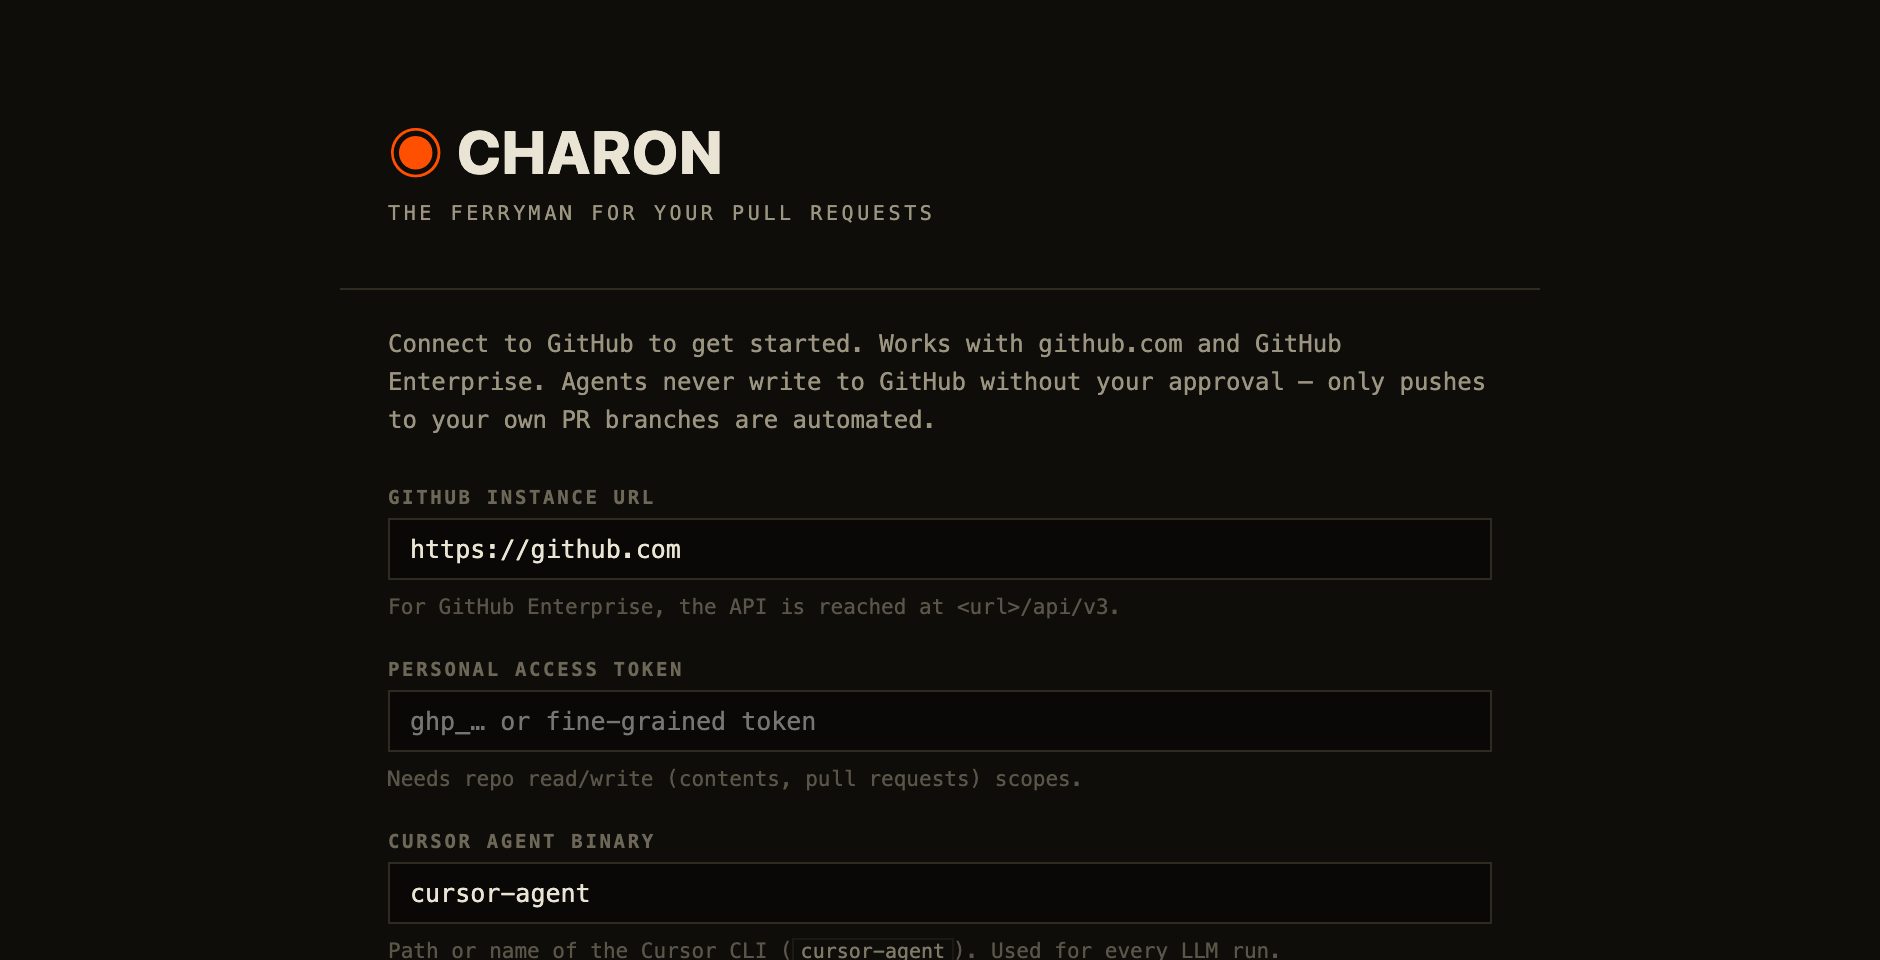
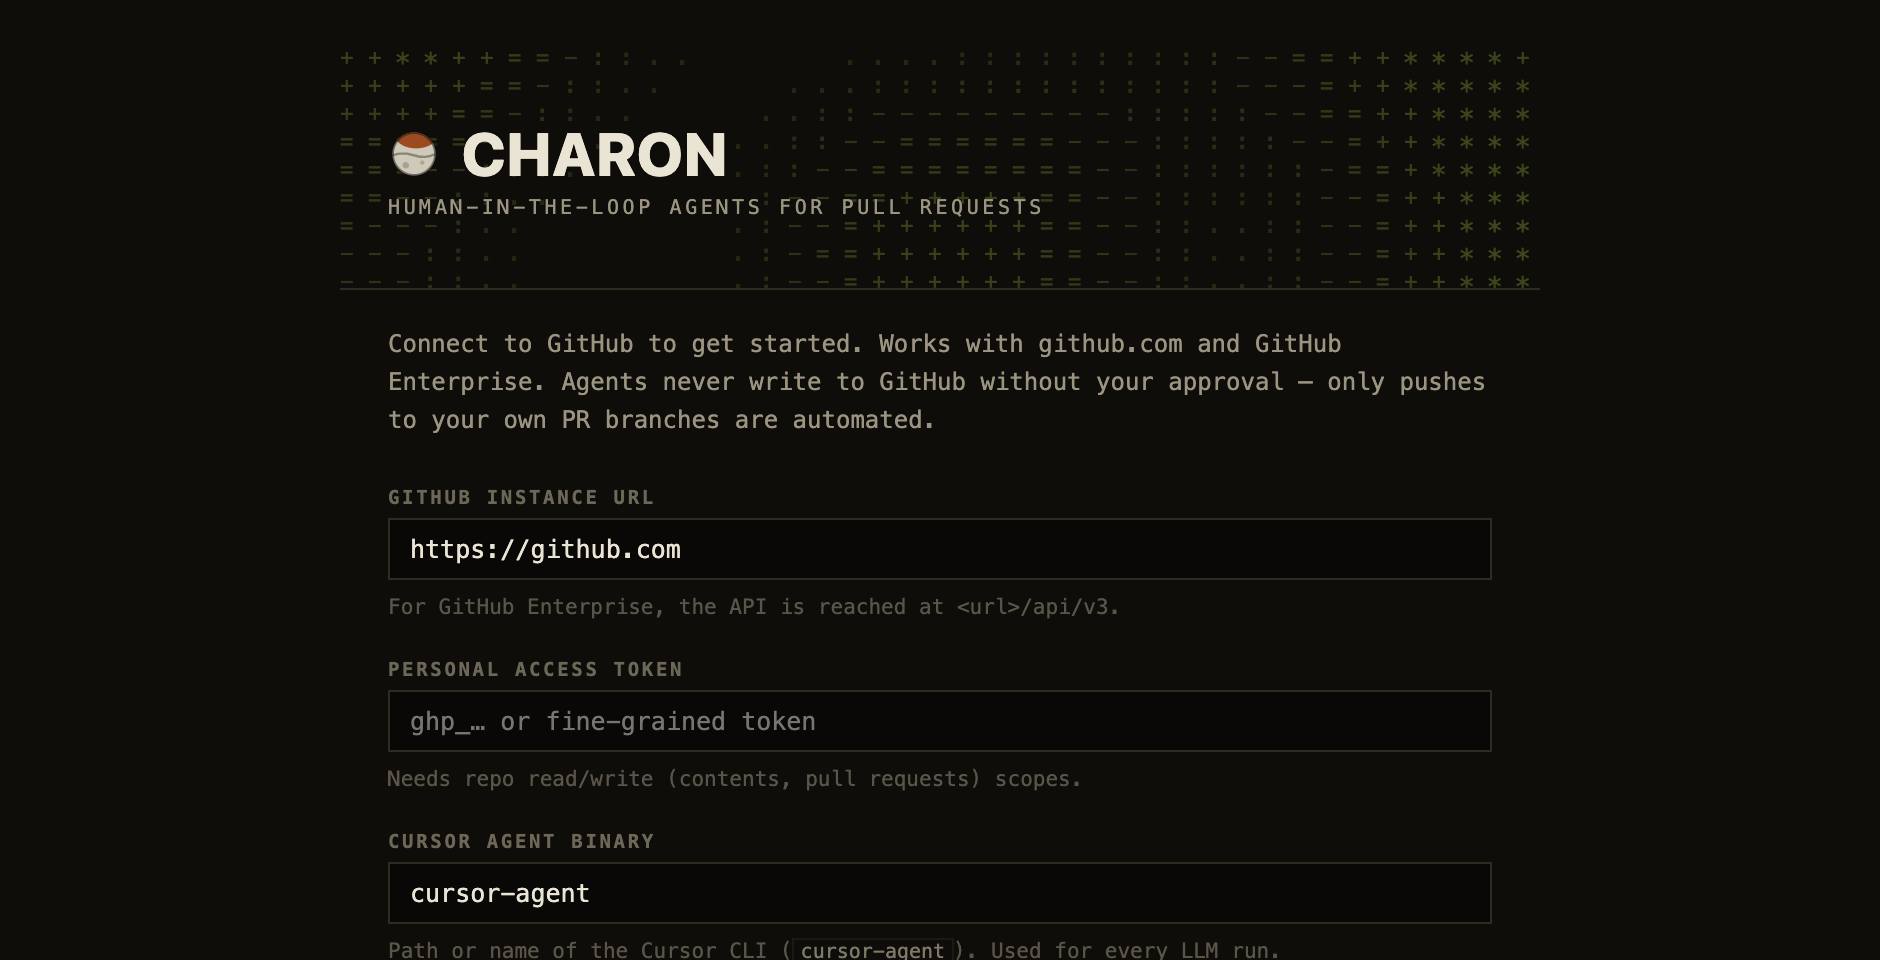
README: reframe around the AI-era review bottleneck
Lead with the problem — AI made code cheap and review the constraint —
and position Charon as deliberate tooling for the human in the loop
rather than another unsupervised bot. Re-shot the onboarding screenshot
with the new launcher tagline.

Changed region(s): [[0.1851, 0.125, 0.5553, 0.25], [0.7404, 0.0625, 0.8021, 0.0938]]

diff --git a/README.md b/README.md
@@ -10,28 +10,37 @@
   <img src="https://img.shields.io/badge/agents-Cursor%20CLI-ffb000?style=flat-square&labelColor=15140f" alt="Cursor CLI"/>
 </p>
 
-**Charon is a desktop control room for your pull requests.** It watches every PR you own and every
-review you owe, fires AI agents at the busywork — failing CI, merge conflicts, bug-bot findings,
-review requests — and queues up their output as **proposals you approve before anything touches
-GitHub**. Every branch needs passage to main; Charon works the crossing. You set the fare.
+AI made writing code cheap. It didn't make *merging* it cheap: the PRs got bigger, more numerous,
+and more uneven, while review capacity — humans with context and accountability — stayed exactly
+the same. That's the new bottleneck, and the popular fix (point another unsupervised bot at the
+thread) just moves the noise downstream to the people who have to read it.
+
+**Charon is a desktop control room for that bottleneck.** It watches every PR you own and every
+review you owe, fires agents at the work that doesn't need your judgment — failing CI, merge
+conflicts, bug-bot triage, first-pass review — and turns what *does* need your judgment into
+fast, well-presented decisions: **proposals you edit and approve before anything touches GitHub**.
 
 <p align="center">
   <img src="docs/tour.gif" alt="Charon tour: babysitting PRs, reviewing a teammate's diff, watching agents stream" width="100%"/>
 </p>
 
-## The deal: agents do the work, you set the fare
+## Tools for the human in the loop, not a louder bot
 
-Most AI-PR tools post on your behalf and hope you would have said the same thing. Charon inverts
-that:
+You can't fix an AI-volume problem by adding more unsupervised AI output — auto-posted reviews and
+auto-replies are how PR threads became unreadable in the first place. Charon spends its
+intelligence the other way: agents do the legwork, and the product of every run is a *decision
+surface* for you — diffs with anchored findings, severity and confidence on every comment,
+one-click apply-or-dismiss — instead of another post in the thread.
 
 - **The app never posts comments, replies, or reviews on its own.** Every GitHub-facing write is a
   proposal card — edit it, regenerate it with a custom prompt, run it through a humanize skill, or
-  dismiss it. Nothing crosses until you hit *Approve & send*.
+  dismiss it. Nothing ships until you hit *Approve & send*. Your teammates always get *you*, at
+  your speed, not a bot wearing your name.
 - **One automated exception, by design:** during fix flows the agent commits and pushes to *your
-  own* PR branches (never forks, never teammates' branches). Code you can still review; comments
-  that never impersonate you.
+  own* PR branches (never forks, never teammates' branches). Code is reviewable after the fact;
+  comments that impersonate you are not.
 - Agents reviewing teammates' code run **read-only**. Fix agents get an **isolated git worktree**
-  scoped to the one PR they're fixing. You hold the tiller; the agents pull the oars.
+  scoped to the one PR they're fixing.
 
 ## What it does
 